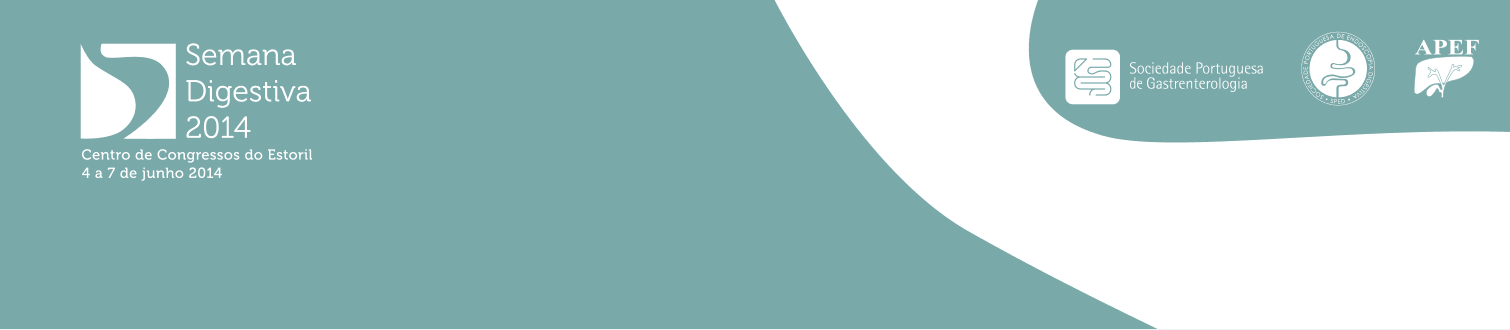
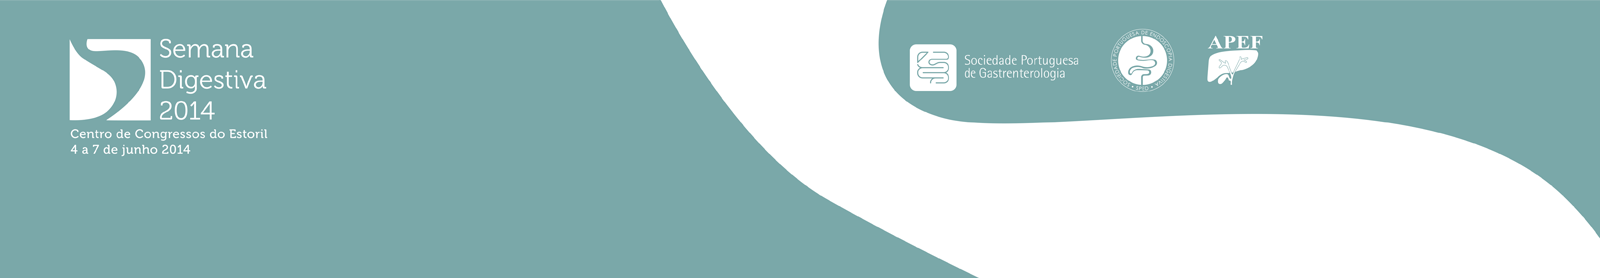
V:0.03 Layout updated;Page link navigation implemented;libraryX implemented

Changed region(s): [[0.0, 0.0, 1.0, 1.0], [0.0311, 0.1151, 0.2179, 0.5755]]

diff --git a/start.html b/start.html
@@ -30,6 +30,7 @@
 		<!--[if IE]>
   		<script src="http://html5shiv.googlecode.com/svn/trunk/html5.js"></script>
 		<![endif]-->
+		<script type="text/javascript" src="src/js/libraryX.js"></script>
 		<script type="text/javascript" src="src/js/customX.js"></script>
 	</head>
 	<body>
@@ -44,41 +45,41 @@
                 <nav>
                 	<div id="page-wrap">
                 	<ul id="menu">
-                        <li><a href="#">COMUNICAÇÕES ORAIS</a>
-                            <ul class="submenu">
+                        <li><a href="#" class="current-item">COMUNICAÇÕES ORAIS</a>
+                            <ul>
                                  <li><a href="#">Data</a>
                                      <ul>
-                                            <li><a href="#">dia 5 de junho</a></li>
-                                            <li><a href="#">dia 6 de junho</a></li>
-                                            <li><a href="#">dia 7 de junho</a></li>
+                                            <li><a href="#" name="d5">dia 5 de junho</a></li>
+                                            <li><a href="#" name="d6">dia 6 de junho</a></li>
+                                            <li><a href="#" name="d7">dia 7 de junho</a></li>
                                     </ul>
                                  </li>
-                                 <li><a href="#">Tema</a></li>
-                                 <li><a href="#">INDÍCE DE AUTOR</a></li>
+                                 <li><a href="#" name="#">Tema</a></li>
+                           
                             </ul>
                         </li>
                         <li><a href="#">POSTERS</a>
-                            <ul class="submenu">
-                              <li><a href="#">CASOS CLÍNICOS</a></li>
-                              <li><a href="#">CIÊNCIA BÁSICA</a></li>
-                              <li><a href="#">DOENÇA INFLAMATÓRIA INTESTINALs</a></li>
-                              <li><a href="#">FÍGADO</a></li>
-                              <li><a href="#">PÂNCREAS E VIAS BILIARES</a>
-                              <li><a href="#">TUBO DIGESTIVO</a>
+                            <ul>
+                              <li><a href="#" name="#">CASOS CLÍNICOS</a></li>
+                              <li><a href="#" name="#">CIÊNCIA BÁSICA</a></li>
+                              <li><a href="#" name="#">DOENÇA INFLAMATÓRIA INTESTINALs</a></li>
+                              <li><a href="#" name="#">FÍGADO</a></li>
+                              <li><a href="#" name="#">PÂNCREAS E VIAS BILIARES</a>
+                              <li><a href="#" name="#">TUBO DIGESTIVO</a>
                             </ul>
                         </li>
                         <li><a href="#">REUNIÃO GASTRENTEROLOGIA PEDIÁTRICA</a>
-                            <ul class="submenu">
-                                 <li><a href="#">COMUNICAÇÕES ORAIS I</a></li>
-                                 <li><a href="#">CASOS ENDOSCOSPICOS</a></li>
-                                 <li><a href="#">COMUNICAÇÕES ORAIS II</a></li>
-                                 <li><a href="#">POSTERS</a></li>
+                            <ul>
+                                 <li><a href="#" name="#">COMUNICAÇÕES ORAIS I</a></li>
+                                 <li><a href="#" name="#">CASOS ENDOSCOSPICOS</a></li>
+                                 <li><a href="#" name="#">COMUNICAÇÕES ORAIS II</a></li>
+                                 <li><a href="#" name="#">POSTERS</a></li>
                             </ul>
                         </li>
                         <li><a href="#">ENCONTRO APEGAST</a>
-                            <ul class="submenu">
-                                 <li><a href="#">COMUNICAÇÕES LIVRES</a></li>
-                                 <li><a href="#">POSTERS</a></li>
+                            <ul>
+                                 <li><a href="#" name="#">COMUNICAÇÕES LIVRES</a></li>
+                                 <li><a href="#" name="#">POSTERS</a></li>
                             </ul>
                         </li>
                         <span class="pesquisa"><form action="" method="get"><input class="bah" name="" placeholder="Pesquisa" type="text"></form></span>
@@ -89,32 +90,9 @@
                 </nav>
 			</div>
 			<article class="content">
-				<div>
-					<h1>Chocolat Acid</h1>
-                <div>
-                	<ul class="alist">
-						<li><p class="subtitle"><a href="#">123. Bonbon powder caramels oat cake tiramisu chupa chups lemon drops jujubes.</a></p>
-                        <p class="subline">Biscuit lemon drops pie topping. Chupa chups sweet roll jelly biscuit jelly beans cotton candy.</li>
-                        
-                        <li><p class="subtitle"><a href="#">123. Bonbon powder caramels oat cake tiramisu chupa chups lemon drops jujubes.</a></p>
-                        <p class="subline">Biscuit lemon drops pie topping. Chupa chups sweet roll jelly biscuit jelly beans cotton candy.</li>
-                        
-                        <li><p class="subtitle"><a href="#">123. Bonbon powder caramels oat cake tiramisu chupa chups lemon drops jujubes.</a></p>
-                        <p class="subline">Biscuit lemon drops pie topping. Chupa chups sweet roll jelly biscuit jelly beans cotton candy.</li>
-                        
-                        <li><p class="subtitle"><a href="#">123. Bonbon powder caramels oat cake tiramisu chupa chups lemon drops jujubes.</a></p>
-                        <p class="subline">Biscuit lemon drops pie topping. Chupa chups sweet roll jelly biscuit jelly beans cotton candy.</li>
-                        
-                        <li><p class="subtitle"><a href="#">123. Bonbon powder caramels oat cake tiramisu chupa chups lemon drops jujubes.</a></p>
-                        <p class="subline">Biscuit lemon drops pie topping. Chupa chups sweet roll jelly biscuit jelly beans cotton candy.</li>
-                        
-                        <li><p class="subtitle"><a href="#">123. Bonbon powder caramels oat cake tiramisu chupa chups lemon drops jujubes.</a></p>
-                        <p class="subline">Biscuit lemon drops pie topping. Chupa chups sweet roll jelly biscuit jelly beans cotton candy.</li>
-                        		
-					</ul>
-				</div></div>
+				
 			</article>
-		</div><!-- /container -->
+		<!-- /container -->
 		<script src="src/js/classie.js"></script>
 		<script>
 			(function() {

diff --git a/src/css/normalize.css b/src/css/normalize.css
@@ -1,1 +1,1 @@
-article,aside,details,figcaption,figure,footer,header,hgroup,main,nav,section,summary{display:block;}audio,canvas,video{display:inline-block;}audio:not([controls]){display:none;height:0;}[hidden]{display:none;}html{font-family:sans-serif;-ms-text-size-adjust:100%;-webkit-text-size-adjust:100%;}body{margin:0;}a:focus{outline:thin dotted;}a:active,a:hover{outline:0;}h1{font-size:2em;margin:0.67em 0;}abbr[title]{border-bottom:1px dotted;}b,strong{font-weight:bold;}dfn{font-style:italic;}hr{-moz-box-sizing:content-box;box-sizing:content-box;height:0;}mark{background:#ff0;color:#000;}code,kbd,pre,samp{font-family:monospace,serif;font-size:1em;}pre{white-space:pre-wrap;}q{quotes:"\201C" "\201D" "\2018" "\2019";}small{font-size:80%;}sub,sup{font-size:75%;line-height:0;position:relative;vertical-align:baseline;}sup{top:-0.5em;}sub{bottom:-0.25em;}img{border:0;}svg:not(:root){overflow:hidden;}figure{margin:0;}fieldset{border:1px solid #c0c0c0;margin:0 2px;padding:0.35em 0.625em 0.75em;}legend{border:0;padding:0;}button,input,select,textarea{font-family:inherit;font-size:100%;margin:0;}button,input{line-height:normal;}button,select{text-transform:none;}button,html input[type="button"],input[type="reset"],input[type="submit"]{-webkit-appearance:button;cursor:pointer;}button[disabled],html input[disabled]{cursor:default;}input[type="checkbox"],input[type="radio"]{box-sizing:border-box;padding:0;}input[type="search"]{-webkit-appearance:textfield;-moz-box-sizing:content-box;-webkit-box-sizing:content-box;box-sizing:content-box;}input[type="search"]::-webkit-search-cancel-button,input[type="search"]::-webkit-search-decoration{-webkit-appearance:none;}button::-moz-focus-inner,input::-moz-focus-inner{border:0;padding:0;}textarea{overflow:auto;vertical-align:top;}table{border-collapse:collapse;border-spacing:0;}
+article,aside,details,figcaption,figure,footer,header,hgroup,main,nav,section,summary{display:block;}audio,canvas,video{display:inline-block;}audio:not([controls]){display:none;height:0;}[hidden]{display:none;}html{font-family:sans-serif;-ms-text-size-adjust:100%;-webkit-text-size-adjust:100%;}body{margin:0;}a:focus{outline:thin dotted;}a:active,a:hover{outline:0;}h1{font-size:1.1em;margin:0.67em;}abbr[title]{border-bottom:1px dotted;}b,strong{font-weight:bold;}dfn{font-style:italic;}hr{-moz-box-sizing:content-box;box-sizing:content-box;height:0;}mark{background:#ff0;color:#000;}code,kbd,pre,samp{font-family:monospace,serif;font-size:1em;}pre{white-space:pre-wrap;}q{quotes:"\201C" "\201D" "\2018" "\2019";}small{font-size:80%;}sub,sup{font-size:75%;line-height:0;position:relative;vertical-align:baseline;}sup{top:-0.5em;}sub{bottom:-0.25em;}img{border:0;}svg:not(:root){overflow:hidden;}figure{margin:0;}fieldset{border:1px solid #c0c0c0;margin:0 2px;padding:0.35em 0.625em 0.75em;}legend{border:0;padding:0;}button,input,select,textarea{font-family:inherit;font-size:100%;margin:0;}button,input{line-height:normal;}button,select{text-transform:none;}button,html input[type="button"],input[type="reset"],input[type="submit"]{-webkit-appearance:button;cursor:pointer;}button[disabled],html input[disabled]{cursor:default;}input[type="checkbox"],input[type="radio"]{box-sizing:border-box;padding:0;}input[type="search"]{-webkit-appearance:textfield;-moz-box-sizing:content-box;-webkit-box-sizing:content-box;box-sizing:content-box;}input[type="search"]::-webkit-search-cancel-button,input[type="search"]::-webkit-search-decoration{-webkit-appearance:none;}button::-moz-focus-inner,input::-moz-focus-inner{border:0;padding:0;}textarea{overflow:auto;vertical-align:top;}table{border-collapse:collapse;border-spacing:0;}

diff --git a/src/css/main.css b/src/css/main.css
@@ -10,12 +10,22 @@ body {
 	font-size: 1.2em;
 	line-height: 1.5;
 	font-family: Arial, Helvetica, sans-serif;
+	text-rendering: optimizeLegibility;
+	-webkit-font-smoothing: antialiased;
 	overflow-x: hidden;
 }
 
-html, body, .container, .header {
-	height: 100%;
+a {
+	outline: none;
+	color: #79a8a8;
+	text-decoration: none;
 }
+
+a:hover, a:focus {
+	color: #ccc;
+}
+
+ul{ list-style:none;}
 
 /* Header */
 .header {
@@ -24,33 +34,8 @@ html, body, .container, .header {
 	min-height: 560px;
 	width: 100%;
 }
-.bg-img{
-	background-color: #79a8a8;
-	background-image: url(../img/entrada.png);
-	background-repeat: no-repeat;
-	background-size: contain;
-	background-position: center 0px;
-}
 
-.banner{
-	background-image: url(../img/banner.png);
-	background-repeat: no-repeat;
-	background-size: cover;
-	position: absolute;
-	overflow: hidden;
-	top: 0;
-	left: 0;
-	right: 0;
-	bottom: 0;
-}
-.banner img{
-	position: absolute;
-	display: block;
-	min-width: 100%;
-	min-height: 100%;
-}
 .title {
-	background-color: #79a8a8;
 	z-index: 1000;
 	margin: 0 auto;
 	padding: 0 1.25em;
@@ -78,15 +63,11 @@ h1 {
 	margin: 0 auto;
 	background-color:#79a8a8;
 	text-align:left;
-	width:13em;
 	margin-left: 1em;
 	font-size: 1.1em;
 }
-p.subline {
-	font-size: 1em;
+p.subline, subtitle {
 	color:#999;
-	line-height: .1em;
-	text-indent: 2.3em;
 }
 a{
 	text-decoration:none;
@@ -94,22 +75,34 @@ a{
 }
 a:hover { color: #ccc; }
 
-/* To Navigation Style */
+/*--------- To Navigation Style ------------*/
 nav { 
+
 	padding: 0; 
 	position: relative; 
 	margin:9em 0 0 1.5em; 
 }
-#page-wrap { 
-	position: relative; 
-	margin: 0 0.4em 0 0.4em; 
+
+nav a {
+	font-weight: 800;
+	text-transform: uppercase;
+	font-size: 0.6em;
+	letter-spacing: 1px;
+	padding: 0.3em 0;
+	margin: 0 0.5em;
+	white-space: nowrap;
 }
-ul {list-style: none;}
+
 /* MENUS Style */
 #menu{
 	height: .5em;
-	min-width: 39em;
-}	
+}
+
+a.current-item{
+	color: #79a8a8;
+	background-color: #fff;
+}
+	
 #menu ul{  
 	padding: 0px;
 	width:16em;
@@ -120,11 +113,11 @@ ul {list-style: none;}
 }
 
 #menu li{
-	
 	display: block;
 	float: left;
 	height: 40px;
 	position: relative;
+	margin-bottom: 5px;
 }
 #menu li a{
 	text-transform: uppercase;
@@ -146,7 +139,7 @@ ul {list-style: none;}
 
 /* Third-level menus */
 
-#menu ul li a:hover{color: #ccc;}
+a:hover{color: #ccc;}
 
 #menu ul ul{
 	top: 0px;
@@ -165,6 +158,11 @@ ul {list-style: none;}
 	display: block;
 	visibility:visible;
 }
+
+#menu li ul li a {
+	color:#fff;
+	background-color: #79a8a8;);
+}
 /* Other Style */
 
 .content .alist li{
@@ -172,7 +170,7 @@ ul {list-style: none;}
 	list-style: none;
 }
 
-.pesquisa{ float:right; margin-right: 5em; padding: .2em;}
+.pesquisa{ float:right; margin-right: 3em; padding: 1em .3em;}
 
 .pesquisa input:focus {
     outline: none !important;

diff --git a/src/css/component.css b/src/css/component.css
@@ -8,6 +8,12 @@
 		url('../fonts/icomoon/icomoon.ttf?-ee0u0f') format('truetype'),
 		url('../fonts/icomoon/icomoon.svg?-ee0u0f#icomoon') format('svg');
 }
+
+html, body, .container, .header, #pagewrap{
+	height: 100%;
+	width:100%;
+}
+
 .bg-img {
 	position: absolute;
 	overflow: hidden;
@@ -17,16 +23,32 @@
 	bottom: 0;
 	-webkit-backface-visibility: hidden;
 	backface-visibility: hidden;
+	background-color: #79a8a8;
+	background-image: url(../img/entrada.png);
+	background-repeat: no-repeat;
+	background-size: contain;
+	background-position: center 0px;
 }
 
 .bg-img img {
-	position: absolute;
-	top: 0;
-	left: 0;
 	display: block;
 	min-width: 100%;
 	min-height: 100%;
 }
+
+.banner{
+	background-image: url(../img/banner.png);
+	background-repeat: no-repeat;
+	background-size: contain;
+	position: absolute;
+	overflow: hidden;
+	top: 0;
+	left: 0;
+	right: 0;
+	bottom: 0;
+	
+}
+
 /* Trigger Button */
 button.trigger {
 	position: fixed;
@@ -133,8 +155,6 @@ button.trigger span::before {
 }
 
 .intro-effect-push nav a {
-	color: #79a8a8;
-	background-color: #fff;
 	padding: 10px;
 }
 
@@ -186,19 +206,19 @@ button.trigger span::before {
 	transition-delay: 0.6s;
 }
 
-/* Media Queries */
+/* Media Queries Tablet*/
 @media screen and (max-width: 47em) {
 .title, .content {
 		font-size: 70%;
 	}
-
 nav a {
 		font-size: 80%;
 	}
+	
 }
 
+/* Media Queries Mobile*/
 @media screen and (max-width: 27em) {
-
 .intro-effect-push .header .title {
 		top: 60px;
 		-webkit-transform: translateX(-50%);

diff --git a/src/js/customX.js b/src/js/customX.js
@@ -1,1 +1,38 @@
+$(document).ready(function(){
+
+//         <Menu-click-Control>
+$('#menu li a').click(function(e) {
+	e.preventDefault();
+	var link = $(this).prop('name');
+
+	switch(link){
+		case 'd5':
+		console.log(projectX({date:5}).get());
+		break;
+		case 'd6':
+		console.log(projectX({date:6}).get());
+		break;
+		case 'd7':
+		console.log(projectX({date:7}).get());
+		break;
+	}
+	console.log(link);
+var tst = '';
+tst = '<div><h1>Chocolat Acid</h1><div><ul class="alist">';
+for(var i=1;i<100;i++){
+tst+= '<li><p class="subtitle"><a href="#">'+i+'. Bonbon powder caramels oat cake tiramisu chupa chups lemon drops jujubes.</a></p> \
+                        <p class="subline">Biscuit lemon drops pie topping. Chupa chups sweet roll jelly biscuit jelly beans cotton candy.</li>';
+}
+tst+= '</ul></div></div>';
+	$('.content').html(tst);
+
+});         
+//         </Menu-click-Control>
+
+
 console.log("CustomX is on and ready to party");
+
+});
+
+
+

diff --git a/src/js/libraryX.js b/src/js/libraryX.js
@@ -1,0 +1,1 @@
+console.log("libraryX is online and ready to go!");
